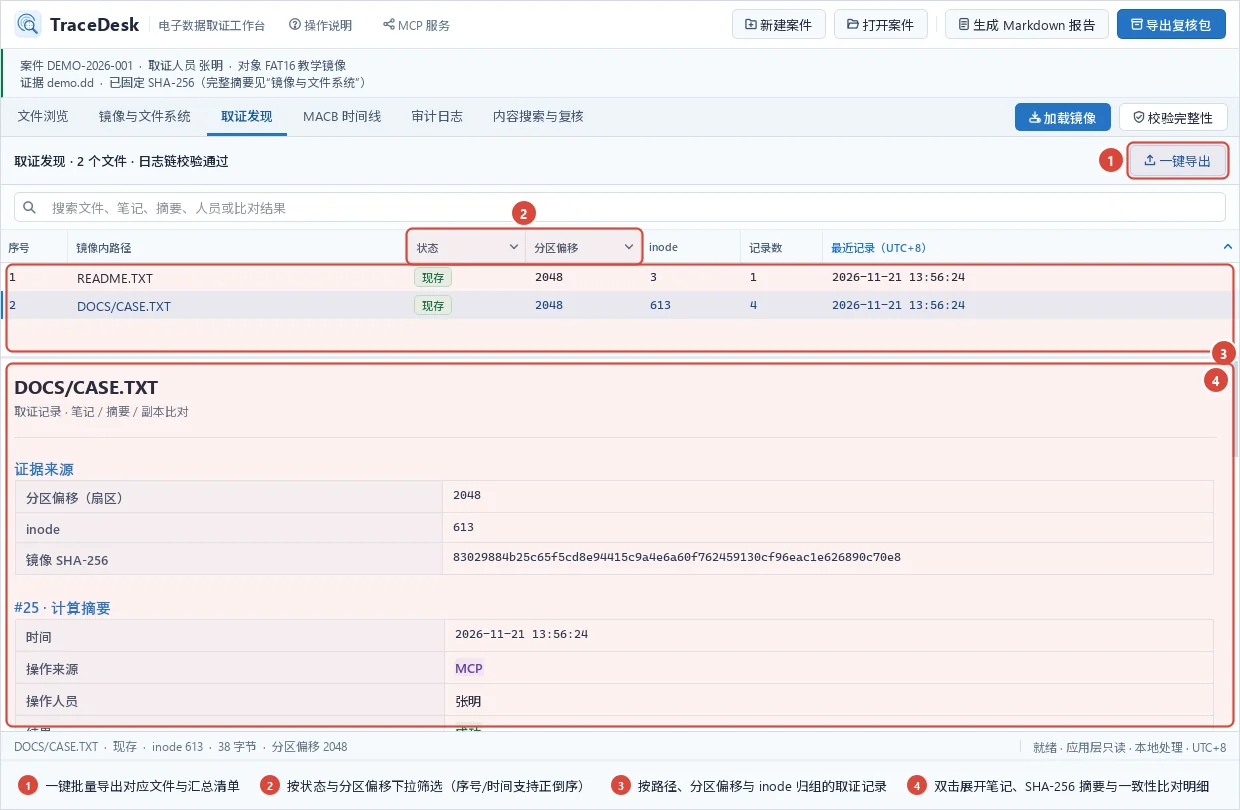
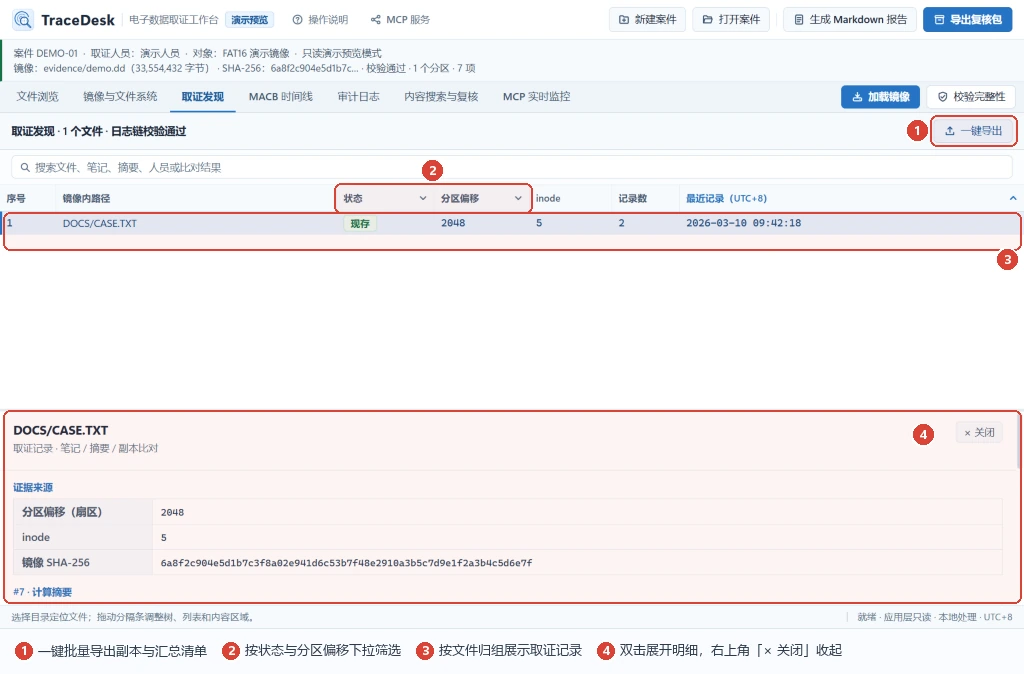
更新图文操作说明文案与引导图并重编桌面端

diff --git a/frontend/src/modules/HelpGuideDialog.tsx b/frontend/src/modules/HelpGuideDialog.tsx
@@ -1,6 +1,6 @@
 /**
  * 模块 8：图文操作说明弹窗 (help)
- * 1:1 还原 forensic/features/help.py 全部 9 个主题、红色 ①–⑤ 标注、真实引导图与 Lightbox 大图查看器。
+ * 内置 9 个分步取证主题、红色 ①–⑤ 标注、真实桌面引导图与 Lightbox 大图查看器。
  */
 import React, { useRef, useState } from 'react';
 import { UiIcon } from '../components/Icons';
@@ -39,7 +39,7 @@ const GUIDE_PAGES: readonly GuidePage[] = [
     content: `1. 启动 TraceDesk 桌面工作台。点击 ① **新建案件**，填写案件编号、取证人员和取证对象；选择上级目录，并可直接修改案件文件夹名。
 2. 每个案件固定分析一份镜像，源镜像必须放在案件库目录之外（例如案件放在 \`cases\`，镜像放在同级 \`evidence\`）。点击 ② **加载镜像**，选择 RAW 镜像或分段 EWF 的 **.E01 首段**（所有续段需位于同一目录）。
 3. 切换到 **镜像与文件系统**，点击右上角 ③ **登记证据来源**，填写证据编号、来源、采集时间与时区、采集工具；如交付方提供了 SHA-256，填入其 64 位十六进制摘要。
-4. 在 ④ **证据固定 / 覆盖范围与证据来源** 区域核对路径、逻辑字节数、SHA-256、卷声明范围及交付方摘要比对结论；在 ⑤ 查看底层原始分区表（\`mmls\`）与文件系统信息（\`fsstat\`）。
+4. 在 ④ **证据固定 / 覆盖范围与证据来源** 区域核对路径、逻辑大小（点击大小数值可在 TiB / GiB / MiB / KiB 与精确字节数之间切换）、SHA-256、卷声明范围及交付方摘要比对结论；在 ⑤ 查看底层原始分区表（\`mmls\`）与文件系统信息（\`fsstat\`）。
 
 > 继续已有案件：点击顶部 ① **打开案件**，选择案件目录中的 \`case.json\`。备份或移交案件时请复制整个案件文件夹（含压缩清单、审计链与导出材料）。`,
   },
@@ -49,7 +49,7 @@ const GUIDE_PAGES: readonly GuidePage[] = [
     summary: '逻辑容量达到 1 GiB 时自动切换为按需目录浏览，可边浏览边在后台校验基线，按需建立完整索引。',
     image: 'assets/guide/03_large_image.webp',
     caption: '图 3 · 大容量镜像按需目录浏览、完整索引与后台校验入口（点击查看大图）',
-    content: `- **先浏览，不阻塞**　小于 1 GiB 的镜像会自动固定摘要并扫描全部分区；达到 1 GiB 时先打开首个可读根目录，并在 ① 保管状态条标明“整镜像 SHA-256 待固定”。双击目录深入浏览，点击左侧 ② **返回上级目录** 回退。
+    content: `- **先浏览，不阻塞**　小于 1 GiB 的镜像会自动固定摘要并扫描全部分区；达到 1 GiB 时先打开首个可读根目录，并在 ① 保管状态条标明“整镜像 SHA-256 待固定”。左侧文件树支持点击分区或目录按需逐层展开并缓存多分支，也可双击目录深入浏览、点击左侧 ② **返回上级目录** 回退。
 - **按需建立完整索引**　需要全案内容搜索或 MACB 时间线时，点击左侧 ③ **建立完整文件索引**。写入完成前可随时点 **取消建立索引**，已有目录结果会保留；完成后清单压缩保存至 \`inventory-*.jsonl.gz\`，重开案件直接复用。
 - **后台校验与固定基线**　点击右上角 ④ **校验完整性**。大镜像首次完整读取会建立 SHA-256 基线，后续校验与基线比对；读取期间可继续浏览目录，也可点击 **取消校验** 中止本次读取。EWF 首次解码逻辑介质并固定全部分段，后续逐段复算封装摘要。
 - **正式报告前置条件**　大镜像在固定前导出的副本会标明“初步分析”；重新打开已固定大镜像案件后，需先完成本次会话的完整性校验，再导出副本或生成正式报告。
@@ -64,7 +64,7 @@ const GUIDE_PAGES: readonly GuidePage[] = [
     caption: '图 4 · 文件树、条件筛选栏与十六进制/多编码分页预览（点击查看大图）',
     content: `1. 在左侧树选择镜像、分区或目录，可用 ① **全部展开 / 全部折叠** 控制层级。遇到跨分区同名文件，结合 **分区偏移、路径、inode** 精准区分。
 2. 在 ② 筛选栏输入后缀（如 \`.txt\`）或路径关键词，或在状态下拉框选择 **现存文件 / 已删除**，按回车或点击 **筛选**；点击 **重置** 恢复当前范围。筛选不裁剪左侧完整树。
-3. 在 ③ 文件列表核对状态胶囊、字节数、inode 与 MACB 四时间（UTC+8）。单击文件即可在下方预览；超过 1,000 项时列表自动按每页 100 项分页。
+3. 在 ③ 文件列表核对状态胶囊、字节数、inode 与 MACB 四时间（UTC+8）。单击文件即可在下方预览，右键文件可快速导出、记录发现、计算摘要、校验一致性或 **单文件检索内容…**；超过 1,000 项时列表自动按每页 100 项分页。
 4. 在 ④ 切换 **文本 / 十六进制**，中文乱码时按来源在 **编码** 下拉框选择 UTF-8、UTF-16LE/BE、GBK、GB18030、Big5 等 9 种编码。可识别的图片自动显示 **图片** 页（上限 32 MiB、4000 万像素），并可随时切回 **十六进制** 核对原始字节。
 5. 使用下方 **上一页 / 下一页** 翻页，或双击 ⑤ 页码徽标直接输入目标页号跳转（大普通文件可直接跳到末页）。`,
   },
@@ -74,10 +74,10 @@ const GUIDE_PAGES: readonly GuidePage[] = [
     summary: '支持 UTF-8、UTF-16LE、GBK 与 HEX 精确字节检索，结果实时流式展示，搜索期间即可筛选、排除并保存为取证发现。',
     image: 'assets/guide/05_content_search.webp',
     caption: '图 5 · 内容搜索与复核页：实时流式命中、三态全选与批量保存（点击查看大图）',
-    content: `1. 切换到 **内容搜索与复核**。在 ① 输入搜索文字或十六进制字节，选择编码与范围（**全部文件** 或 **文件浏览中选中的文件**；大镜像全案搜索需先建立完整索引），点击 **搜索**。运行中按钮自动切换为 **取消搜索**。
+    content: `1. 切换到 **内容搜索与复核**。在 ① 输入搜索文字或十六进制字节（文本编码会精确保留首尾空格），选择编码与范围（**全部文件** 或 **文件浏览中选中的文件**；大镜像全案搜索需先建立完整索引），点击 **搜索**。运行中按钮自动切换为 **取消搜索**。
 2. 用演示镜像验证：选择编码 **HEX**，输入 \`6E 6F 74 65\`，点击 **搜索**，即可在 ④ 命中 \`DOCS/CASE.TXT\`，**文件内字节偏移为 5**（从文件开头的 0 起算）。
 3. 搜索不设命中上限，结果一边扫描一边实时展示。搜索期间即可通过 ③ 表头 **全选** 三态复选框勾选命中，或点击 **分区偏移** 表头下拉筛选。
-4. 双击 ④ 中任意命中行，直接弹出对应偏移的十六进制预览；勾选一条或多条命中后，点击 ② **排除所选项** 剔除误报，或点击 **保存为取证发现** 批量写入审计链。
+4. 双击 ④ 中任意命中行，直接弹出对应偏移的十六进制精准定位预览；勾选一条或多条命中后，点击 ② **排除所选项** 剔除误报，或点击 **保存为取证发现** 批量写入审计链。
 5. 每次搜索的完整命中、范围、校验方式与失败明细均自动保存至案件 \`reports/search_*.json\`。
 
 > 说明：内容搜索覆盖清单中可读取的文件及已删除记录，不解压归档文档、不扫描未分配空间。`,
@@ -87,50 +87,52 @@ const GUIDE_PAGES: readonly GuidePage[] = [
     navLabel: '导出与取证发现',
     summary: '导出前后自动复核原镜像，支持已删除文件可读字节恢复；右键文件工具与“取证发现”页形成结构化证据归档。',
     image: 'assets/guide/06_export_findings.webp',
-    caption: '图 6 · 取证发现页：表头筛选排序、一键批量导出与分栏取证详情（点击查看大图）',
+    caption: '图 6 · 取证发现页：表头筛选排序、一键批量导出与可关闭分栏详情（点击查看大图）',
     content: `1. **导出文件副本**：在 **文件浏览** 选中现存或已删除文件，点击 **导出所选文件**。副本保存至案件 \`exports\` 目录（重名时放入 \`同名副本-*\` 子目录保留原名），并记录副本 SHA-256。
 2. **恢复已删除文件**：将状态切为 **已删除**，选中记录核对能否预览、目录记录大小及恢复提示后再导出。若提示“部分导出”、inode 已重分配或 FAT 起始簇已被占用，应如实记录实际字节数并结合内容研判。
-3. **右键文件取证工具**：在文件树或列表右键普通文件，可使用 **记录取证发现**、**计算哈希值（SHA-256）** 或 **校验一致性…**（与本地副本逐字节比对），所有结果自动绑定镜像摘要、分区偏移与 inode 写入审计链。
-4. **集中复核与一键导出**：打开 **取证发现**，通过 ② **状态 / 分区偏移** 表头下拉筛选或点击 **序号 / 最近记录** 切换正倒序；在 ③ 双击文件于下方 ④ 展开笔记、摘要与比对明细，点击右上角 ① **一键导出** 即可批量导出对应副本并生成汇总 Markdown。`,
+3. **右键文件取证工具**：在文件树或列表右键普通文件，可使用 **记录取证发现**、**计算哈希值（SHA-256）**、**校验一致性…**（与本地副本逐字节比对）或 **单文件检索内容…**，结果自动绑定镜像摘要、分区偏移与 inode 写入审计链。
+4. **集中复核与一键导出**：打开 **取证发现**，通过 ② **状态 / 分区偏移** 表头下拉筛选或点击 **序号 / 最近记录** 切换正倒序；在 ③ 双击文件于下方 ④ 展开笔记、摘要与比对明细（点击详情栏右上角 **× 关闭** 可随时收起详情面板），点击右上角 ① **一键导出** 即可批量导出对应副本并生成汇总 Markdown。`,
   },
   {
     title: 'MACB 时间线与审计日志核验',
     navLabel: '时间线与审计日志',
-    summary: '通过 MACB 时间线还原文件活动脉络，在审计日志中追踪人工与 MCP 全部操作并核验 SHA-256 哈希链。',
+    summary: '通过 MACB 时间线还原文件活动脉络，在审计日志中按人工与具体 MCP 使用者追踪全部操作并核验 SHA-256 哈希链。',
     image: 'assets/guide/07_timeline_audit.webp',
-    caption: '图 7 · 审计日志页：人工/MCP 来源筛选、正倒序切换与哈希链详情（点击查看大图）',
+    caption: '图 7 · 审计日志页：人工/MCP 分层来源筛选、正倒序切换与可关闭哈希链详情（点击查看大图）',
     content: `1. 在 ① 模块标签栏切换 **MACB 时间线** 与 **审计日志**。大案件首次进入时间线时点击 **生成时间线** 在后台整理事件，序号在翻页与筛选后保持不变。
 2. **理解 MACB 四时间**：**M** 为内容修改，**A** 为访问，**C** 为元数据变更，**B** 为创建。FAT 不保存 C 时间，查看创建时间请看 B 列；界面统一显示 UTC+8，解释 FAT 等无时区时间时请核对源设备时区。
-3. **排序与表头下拉筛选**：在时间线与审计日志中，单击 ② **序号** 或 **时间（UTC+8）** 表头可切换正序/倒序；单击 ③ 表头可下拉筛选（时间线支持事件/状态/分区偏移；审计日志支持 **来源（人工/MCP）**、操作人员、操作、结果）。
-4. **查看详情与防篡改校验**：双击任意记录在下方 ④ 展开完整详情（审计详情含操作来源、参数、结果及前序/当前 SHA-256 哈希值）。审计链与 \`audit.head\` 尾部锚点用于检出单方面修改或截断。
+3. **排序与表头下拉筛选**：在时间线与审计日志中，单击 ② **序号** 或 **时间（UTC+8）** 表头可切换正序/倒序；单击 ③ 表头可下拉筛选（时间线支持事件/状态/分区偏移；审计日志支持 **来源（人工 / MCP 及具体 MCP 使用者）**、操作人员、操作、结果）。
+4. **查看/关闭详情与防篡改校验**：双击任意记录在下方 ④ 展开完整详情（审计详情含操作来源、MCP 使用者、参数、结果及前序/当前 SHA-256 哈希值）；详情标题栏吸顶固定，随时点击右上角 **× 关闭** 即可收起下方详情页。审计链与 \`audit.head\` 尾部锚点用于检出单方面修改或截断。
 
 > 边界提示：本工具实施应用层只读约束与日志链校验；需要硬件级写保护的采集场景，须另行配合硬件写保护器。`,
   },
   {
     title: '生成报告与交付可核验复核包',
     navLabel: '报告与复核包',
-    summary: '生成结构化 Markdown 取证报告，并通过材料选择窗口按需构建可独立离线核验的复核包 ZIP。',
+    summary: '生成结构化 Markdown 取证报告，并通过材料选择窗口按需构建可独立离线核验的 ZIP64 复核包。',
     image: 'assets/guide/08_report_bundle.webp',
     caption: '图 8 · 复核包材料选择弹窗：缺失中文清单提示、双标签勾选与导出（点击查看大图）',
-    content: `1. **生成 Markdown 报告**：先在 **取证发现** 和 **镜像与文件系统** 核对内容，再点击顶部 **生成 Markdown 报告**。程序会执行完整性校验并将分节报告写入案件 \`reports\` 目录。
+    content: `1. **生成 Markdown 报告**：先在 **取证发现** 和 **镜像与文件系统** 核对内容，再点击顶部 **生成 Markdown 报告**。程序会执行完整性校验并将 10 章节中文报告写入案件 \`reports\` 目录。
 2. **按需选择复核包材料**：点击顶部 **导出复核包**。若案件存在历史导出副本或搜索记录，会弹出材料选择窗口：当部分本地文件已被清理或隔离时，顶部 ① 会给出清晰中文缺失清单，并支持下方 ④ **复制缺失清单**。
 3. 在 ② 切换 **导出副本** 与 **内容搜索记录** 标签页，利用 ③ **全选可用项 / 全不选 / 仅看缺失项** 自由勾选要打入复核包的现存材料，点击 ④ **生成复核包**。未勾选或缺失的历史条目会如实记入 \`manifest.json\` 的 \`omitted_exports\` / \`omitted_searches\`。
-4. **独立离线核验**：复核包与 \`.zip.sha256\` 保存于 \`reports\` 目录（不含原始镜像）。通过独立渠道交付 ZIP 摘要后，复核人运行离线核验命令即可校验全部成员与审计链：
+4. **独立离线核验**：复核包与 \`.zip.sha256\` 保存于 \`reports\` 目录（不含原始镜像）。通过独立渠道交付 ZIP 摘要后，复核人可使用原生 CLI 毫秒级核验全部成员与审计链（包内同时附带独立 \`verify_bundle.py\` 脚本供跨平台核验）：
 
 \`\`\`powershell
-tracedesk-verify "复核包路径.zip" --sha256 交付方提供的64位摘要
+.\\target\\release\\tracedesk-cli.exe verify-bundle "复核包路径.zip" --sha256 交付方提供的64位摘要
 \`\`\``,
   },
   {
-    title: 'MCP 服务端接入与 AI 协同',
-    navLabel: 'MCP 服务端接入',
-    summary: '内置标准 MCP 服务端 tracedesk_mcp（19 工具 + 2 资源），采用仅写入瞬间短锁机制，支持在桌面端实时监控外部 stdio 与 HTTP 客户端并自动同步界面。',
+    title: 'MCP 实时监控与 AI 客户端接入',
+    navLabel: 'MCP 实时监控与接入',
+    summary: '内置原生 Rust MCP 服务端 tracedesk-mcp.exe（19 工具 + 2 资源），采用仅写入瞬间短锁与跨进程遥测，在桌面端实时透视外部 AI 协同过程。',
     image: 'assets/guide/09_mcp_dialog.webp',
-    caption: '图 9 · MCP 实时监控与服务配置：本地 HTTP 启停、实时操作流与客户端接入配置（点击查看大图）',
-    content: `1. 点击工作台顶部 **MCP 服务** 按钮或切换到 **MCP 实时监控** 标签页。所有 MCP 工具均遵守源镜像只读保护，受控写操作会以 **MCP** 来源（\`origin="mcp"\`）写入案件 SHA-256 审计链，可在 **审计日志** 中按人工/MCP 筛选核查。
-2. **桌面与 MCP 实时协同**：案件采用仅写入瞬间短锁机制，桌面端打开案件期间无需手动释放案件锁，外部 stdio 与 HTTP 客户端可直接操作同一案件；MCP 完成受控写入后，桌面端会自动温和刷新案件快照与审计日志，也可在监控页点击 **立即同步** 手动刷新。
-3. **选择传输方式**：本地桌面客户端（Claude Desktop、Cursor、Antigravity 等）推荐在 **接入配置** 子视图选择 **stdio 接入配置**，由客户端按需拉起子进程；若客户端使用 HTTP 接入，可在顶部控制条设置端口并点击 **启动 HTTP 服务**（仅监听 \`127.0.0.1\` 回环并启用 DNS 重绑定防护，关闭主窗口时自动停止）。
-4. 在 **实时操作流** 子视图可按状态、读写模式、客户端与传输方式实时观察每一步工具参数与返回预览；在 **接入配置** 一键 **复制配置 JSON / 启动命令**；在 **工具清单与统计（19）** 可查阅全部工具的只读/受控写入标识与累计调用统计。`,
+    caption: '图 9 · MCP 实时监控主工作区：HTTP 服务启停、遥测指标卡、实时操作流与单步详情透视（点击查看大图）',
+    content: `1. 点击工作台顶部 **MCP 服务** 按钮或直接切换到 **MCP 实时监控** 标签页。在 ① 顶部控制条可设置本机回环端口并启停内嵌 HTTP 服务（仅监听 \`127.0.0.1\` 且启用 DNS 重绑定与并发连接防护，关闭主窗口时自动停止）；采用仅写入瞬间短锁机制，桌面端打开案件期间无需手动释放锁，MCP 完成受控写入后会自动温和刷新界面，也可点击 **立即同步** 手动刷新。
+2. 在 ② 查看四项实时遥测指标卡（总调用/执行中、成功率与平均耗时、活跃客户端、只读与受控写入占比），并切换 **实时操作流 / 接入配置 / 工具清单与统计** 三个子视图。
+3. 在 ③ **实时操作流** 可按阶段、读写模式、客户端、传输通道（同步汇聚 \`desktop-http\`、\`streamable-http\` 与外部 \`stdio\` 子进程）与关键词筛选，实时追踪每一步工具调用的“执行中 → 成功 / 失败”全过程。
+4. 单击步骤即可在 ④ 右侧可拖拽分栏查看完整时间戳、耗时、来源与目标案件、美化入参 JSON、返回结果预览与错误详情，并支持一键跳转 **审计日志** 核验 SHA-256 哈希链。
+
+> 接入配置与工具统计：切到 **接入配置** 可一键复制 \`tracedesk-mcp.exe\` 的 **stdio**（Claude Desktop、Cursor、Antigravity 等本地客户端推荐，按需拉起子进程）或 **Streamable HTTP** 配置 JSON 与启动命令；切到 **工具清单与统计（19）** 可查看只读/受控写入标识及累计调用耗时，双击工具行可直接筛选该工具的调用流。`,
   },
 ];
 

diff --git a/frontend/src/api/demoBackend.ts b/frontend/src/api/demoBackend.ts
@@ -1637,15 +1637,15 @@ export const demoBackend = {
         {
           mcpServers: {
             tracedesk: {
-              command: 'tracedesk-mcp',
-              args: ['--transport', 'stdio', '--cases-root', 'C:\\TraceDesk\\cases'],
+              command: 'tracedesk-mcp.exe',
+              args: ['--transport', 'stdio', '--cases-dir', 'C:\\TraceDesk\\cases'],
             },
           },
         },
         null,
         2
       ),
-      stdioCli: 'tracedesk-mcp --transport stdio --cases-root "C:\\TraceDesk\\cases"',
+      stdioCli: 'tracedesk-mcp.exe --transport stdio --cases-dir "C:\\TraceDesk\\cases"',
       httpConfigJson: JSON.stringify(
         {
           mcpServers: {

diff --git a/README.md b/README.md
@@ -17,7 +17,7 @@
 | `demo.dd` 端到端闭环总耗时（含真实 TSK） | 1,535.75 ms | **727.74 ms** | **2.11×** |
 | 纯 Rust EWF1 多段并行校验 / SIMD 搜索吞吐 | — | **501.69 MiB/s** / **14.44 GiB/s** | 原生并发 |
 
-三大 Release 原生二进制体积紧凑（启用 LTO、符号裁剪、WebP 引导图与可选 `image-preview` 特性）：`tracedesk-desktop.exe` **8.28 MiB**（已内嵌 `frontend/dist` 生产资源）、`tracedesk-mcp.exe` **3.18 MiB**、`tracedesk-cli.exe` **2.72 MiB**。
+三大 Release 原生二进制体积紧凑（启用 LTO、符号裁剪、WebP 引导图与可选 `image-preview` 特性）：`tracedesk-desktop.exe` **8.34 MiB**（已内嵌 `frontend/dist` 生产资源）、`tracedesk-mcp.exe` **3.18 MiB**、`tracedesk-cli.exe` **2.72 MiB**。
 
 ## 目录导航
 
@@ -106,7 +106,7 @@ cargo test --workspace
 3. **浏览与预览**：左侧按镜像/分区/目录展示完整树，右上列表支持后缀、路径关键词和状态筛选与分页（双击页码跳页），右下支持 9 种文本编码（ASCII、UTF-8、UTF-16LE/BE、GBK、GB18030、Big5、Windows-1252、ISO-8859-1）、十六进制与安全图片缩放预览（单张上限 32 MiB / 4000 万像素，显示副本最长边缩至 4096 px）。所有时间统一展示东八区（UTC+8），未记录时间不误显为 1970 年。
 4. **校验与导出**：点击“校验完整性”后选择现存或已删除文件导出至 `exports/`（重名放入 `同名副本-*` 子目录保留原名），导出前后均校验原镜像并记录副本 SHA-256。
 5. **取证发现与内容搜索**：右键文件可记录取证发现、计算单文件 SHA-256 或与本地副本比对；“内容搜索与复核”支持 UTF-8 / UTF-16LE / GBK / HEX 精确字节并行搜索、流式实时展示、三态全选、分区偏移筛选、排除与批量保存为取证发现；“取证发现”页支持按文件归组查看并一键批量导出副本与汇总清单。
-6. **时间线、审计、报告与复核包**：在“MACB 时间线”“审计日志”中双击打开双栏详情（区分 `[人工]` 与 `[MCP · <使用者>]` 来源、支持按调用方精筛并展示前后哈希），点击“生成 Markdown 报告”输出 10 章节中文报告，点击“导出复核包”按需勾选导出副本与搜索记录生成 ZIP64 复核包及 `.zip.sha256`（包内同时附带独立 `verify_bundle.py`，也可使用 `tracedesk-cli verify-bundle` 毫秒级核验）。
+6. **时间线、审计、报告与复核包**：在“MACB 时间线”“审计日志”“取证发现”中双击打开底部双栏详情（支持在吸顶详情栏右上角点击 `× 关闭` 随时收起；审计日志区分 `[人工]` 与 `[MCP · <使用者>]` 来源、支持按调用方精筛并展示前后哈希），点击“生成 Markdown 报告”输出 10 章节中文报告，点击“导出复核包”按需勾选导出副本与搜索记录生成 ZIP64 复核包及 `.zip.sha256`（包内同时附带独立 `verify_bundle.py`，也可使用 `tracedesk-cli verify-bundle` 毫秒级核验）。
 7. **MCP 实时监控**：切换至主工作区 **MCP 实时监控** 标签页（或在顶部 **MCP 服务** 按钮查看实时脉冲指示），即时透视外部 AI 客户端每一步工具调用的起止过程、入参 JSON 与返回预览、19 项工具调用统计及案件热刷新状态。
 
 ## 大容量镜像（≥1 GiB）
